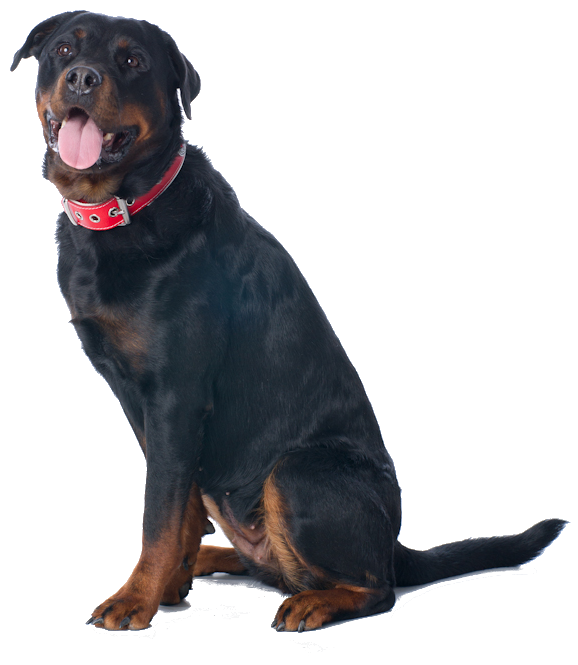
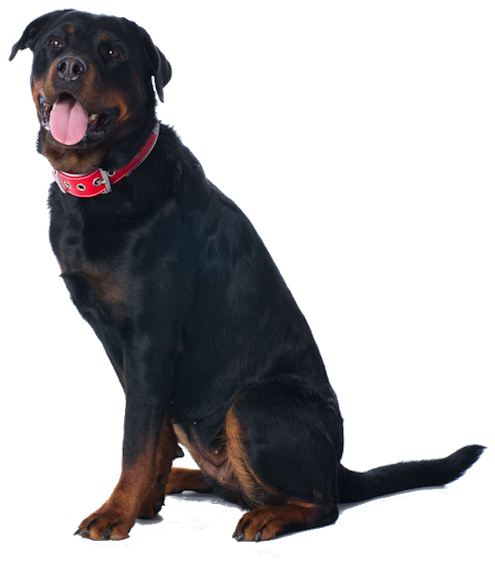
added collar detail view

Changed region(s): [[0.1212, 0.2982, 0.2424, 0.3579], [0.303, 0.1491, 0.3333, 0.1789], [0.0909, 0.1789, 0.1212, 0.2088]]

diff --git a/test/spec/controllers/collardetail.js b/test/spec/controllers/collardetail.js
@@ -1,0 +1,22 @@
+'use strict';
+
+describe('Controller: CollardetailCtrl', function () {
+
+  // load the controller's module
+  beforeEach(module('cgDogCollarsApp'));
+
+  var CollardetailCtrl,
+    scope;
+
+  // Initialize the controller and a mock scope
+  beforeEach(inject(function ($controller, $rootScope) {
+    scope = $rootScope.$new();
+    CollardetailCtrl = $controller('CollardetailCtrl', {
+      $scope: scope
+    });
+  }));
+
+  it('should attach a list of awesomeThings to the scope', function () {
+    expect(scope.awesomeThings.length).toBe(3);
+  });
+});

diff --git a/app/scripts/app.js b/app/scripts/app.js
@@ -21,6 +21,10 @@ angular.module('cgDogCollarsApp', ['ui.bootstrap',
                       templateUrl: 'views/designer.html',
                       controller: 'DesignerCtrl'
                     })
+                    .when('/collardetail/:collarId', {
+                      templateUrl: 'views/collardetail.html',
+                      controller: 'CollardetailCtrl'
+                    })
                     .otherwise({
                         redirectTo: '/'
                     });

diff --git a/app/styles/main.css b/app/styles/main.css
@@ -63,7 +63,7 @@ body {
     width: 200px;
     /*      height: 170px; */
     padding-bottom: 15px;
-    padding-top: 160px;
+    padding-top: 120px;
 }
 
 .leftColumn{
@@ -89,6 +89,11 @@ body {
 
 .carousel-control{
     visibility: hidden;
+}
+
+.carouselImage{
+    width: 410px;
+    height: 570px;
 }
 
 .collectionLineContainer{
@@ -119,6 +124,11 @@ body {
 
 #collarList{
     width:100%;
+}
+
+#collarList div{
+    padding-bottom: 10px;
+    padding-top: 10px;
 }
 
 .collarContainer {

diff --git a/app/scripts/controllers/collardetail.js b/app/scripts/controllers/collardetail.js
@@ -1,0 +1,12 @@
+'use strict';
+
+angular.module('cgDogCollarsApp')
+        .controller('CollardetailCtrl', ['$scope', '$routeParams', 
+    function($scope, $routeParams) {
+                $scope.collar = {
+                    id: $routeParams.collarId,
+                    name: "Collar" + $routeParams.collarId
+                        
+                };
+            }
+        ]);

diff --git a/app/views/main.html b/app/views/main.html
@@ -14,7 +14,7 @@
     <div class="col-xs-4 midColumn" align="center">
         <carousel interval="carousel.interval">
             <slide ng-repeat="slide in carousel.slides" active="slide.active">
-                <img ng-src="{{slide.image}}">
+                <img ng-src="{{slide.image}}" class="carouselImage">
             </slide>
         </carousel>
     </div>

diff --git a/app/index.html b/app/index.html
@@ -84,6 +84,7 @@
         <script src="scripts/controllers/main.js"></script>
         <script src="scripts/controllers/collection.js"></script>
         <script src="scripts/controllers/designer.js"></script>
+        <script src="scripts/controllers/collardetail.js"></script>
         <!-- endbuild -->
     </body>
 </html>

diff --git a/app/views/collection.html b/app/views/collection.html
@@ -7,9 +7,8 @@
             </a>
         </div>
         <div class="itemText">
-            <a href ="/"><h3>{{collar.title}}</h3></a>
+            <a href ="#/collardetail/{{$index}}"><h3>{{collar.title}}</h3></a>
             <p>{{collar.description}}</p>
         </div>
-
     </div>
 </div>

diff --git a/app/views/collardetail.html b/app/views/collardetail.html
@@ -1,0 +1,1 @@
+<p>{{collar.id}}</p>
